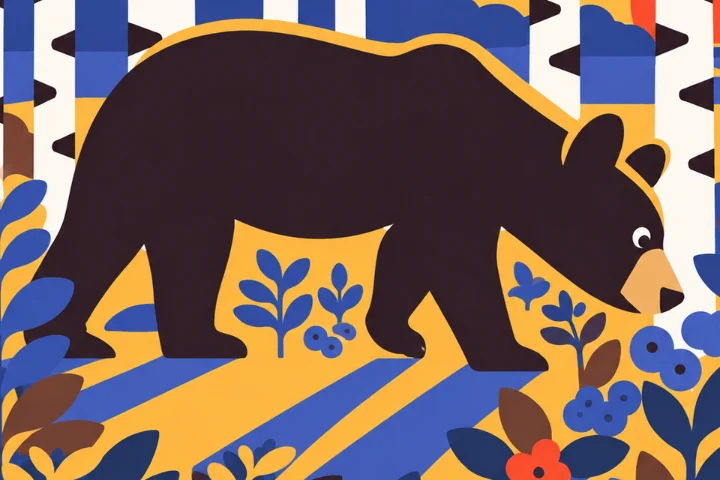
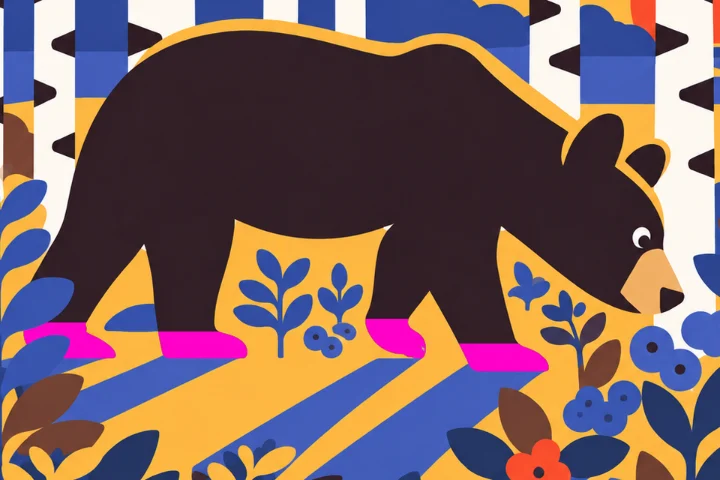
Faunaform: step three of the fifth-leg rail paints take C's paws magenta, the way step one paints the leg
The rail's third picture is take C as it was, so the reader met its human-looking feet with nothing pointing at them, and only step four's words said what was wrong. Its four paws are now step one's magenta (255, 0, 200): every bear-colored pixel joined to each paw below its ankle, filled from inside the foot so the leaf in front of the hind paw stays a leaf. The tile is the same crop of bear-walk-c.png as before (60, 420, 960 x 640 to 720 x 480), at the encoder quality that reproduces the old tile's size, and its buster goes to ?v=2.

Step one's magenta was the marker sent to ChatGPT; the paws pass sent none, its brief named the paws in words. The source comment says so, so this magenta reads as the page's pointer to step four rather than a record.

The fast six pass. resting.mjs and states.mjs on the page hold at 173 resting colors and 77 measurements across 91 state rules, the same as main; readtime.mjs holds at 5 min.

diff --git a/case-study/faunaform.html b/case-study/faunaform.html
@@ -554,7 +554,14 @@
                            bear-legs.png, the edit made from it, changed.
                            02 designs/bear/research/images/10-usfws-black-
                            bear-walking-side.jpg, flipped as it was sent.
-                           03 bear-walk-c.png. 04 bear.png at the paws.
+                           03 bear-walk-c.png with its four paws painted
+                           magenta (2026-10-31, Adam: point at the feet the
+                           way 01 points at the leg). That pass sent no
+                           marker; its brief named the paws in words
+                           (designs/six/prompts/bear-paws.txt). So this
+                           magenta is the page's, pointing ahead to 04:
+                           every bear-colored pixel joined to each paw
+                           below its ankle. 04 bear.png at the paws.
              The figures are masters.json's: take C moved 4.7% of the
              picture against A's 5.7 and B's 5.8, and was thinnest at 2.40%;
              the paws pass moved 1.1%, only the paws. The photo is public
@@ -569,7 +576,7 @@
             <ol class="writing-rail-steps">
               <li><img src="../img/faunaform/bear-fix-mark.webp?v=1" width="720" height="480" alt="" loading="lazy" decoding="async" /><span class="writing-rail-num" aria-hidden="true">01</span><strong>Point at it</strong><span>the extra leg painted magenta, so the edit stays there</span></li>
               <li><img src="../img/faunaform/bear-fix-photo.webp?v=1" width="720" height="480" alt="" loading="lazy" decoding="async" /><span class="writing-rail-num" aria-hidden="true">02</span><strong>Show it a real bear</strong><span>a public-domain photo of a black bear walking, sent with the brief</span></li>
-              <li><img src="../img/faunaform/bear-fix-take-c.webp?v=1" width="720" height="480" alt="" loading="lazy" decoding="async" /><span class="writing-rail-num" aria-hidden="true">03</span><strong>Ask three times, then measure</strong><span>one brief in three fresh chats; take C changed least and printed cleanest</span></li>
+              <li><img src="../img/faunaform/bear-fix-take-c.webp?v=2" width="720" height="480" alt="" loading="lazy" decoding="async" /><span class="writing-rail-num" aria-hidden="true">03</span><strong>Ask three times, then measure</strong><span>one brief in three fresh chats; take C changed least and printed cleanest</span></li>
               <li><img src="../img/faunaform/bear-fix-paws.webp?v=1" width="720" height="480" alt="" loading="lazy" decoding="async" /><span class="writing-rail-num" aria-hidden="true">04</span><strong>Look again</strong><span>C&rsquo;s paws read as human feet, so one more pass moved only the paws</span></li>
             </ol>
           </figure>
